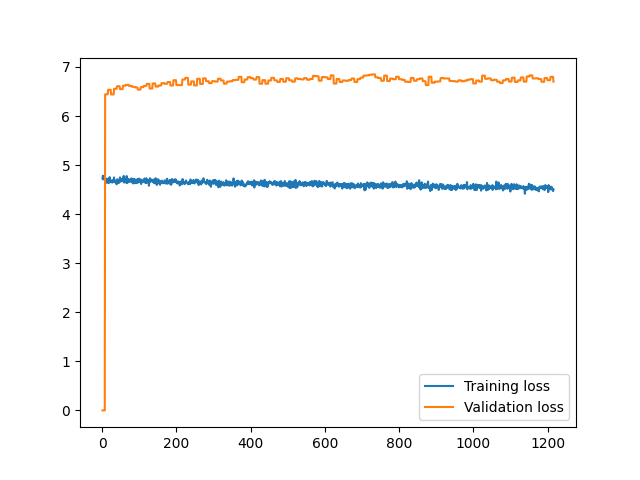
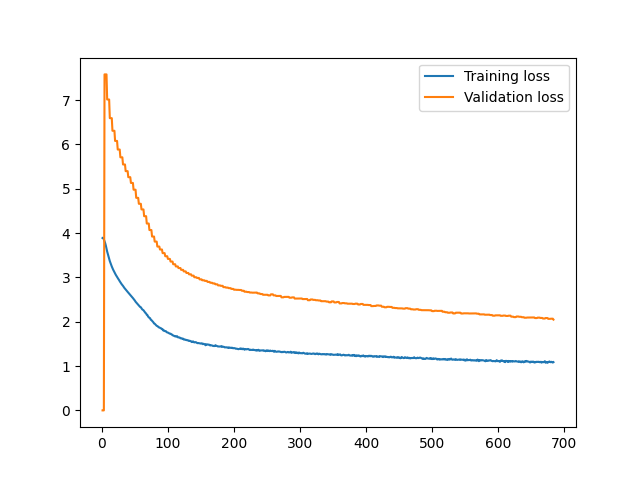
feat: increase model complexity

diff --git a/src/model/transformer.py b/src/model/transformer.py
@@ -224,7 +224,7 @@ class TransformerModel(nn.Module):
         # idx and targets are both (B, T) tensor of integers
         token_embed = self.token_table(idx)  # (B, T, C)
         pos_embed = self.position_table(torch.arange(T, device=device))  # (T, C)
-        x = token_embed + pos_embed  # (B, T, C)
+        x = self.dec_dropout(token_embed + pos_embed)  # (B, T, C)
         x = self.blocks(x)  # (B, T, C)
         x = self.dec_dropout(self.ln_f(x))  # (B, T, C)
         logits = self.lm_head(x)  # (B, T, dataset.vocab_size)

diff --git a/src/config.py b/src/config.py
@@ -1,5 +1,5 @@
 class Config:
-    N_HEADS = 6
+    N_HEADS = 8
     N_LAYERS = 6
-    N_EMBD = 384
-    BLOCK_SIZE = 256
+    N_EMBD = 512
+    BLOCK_SIZE = 512
